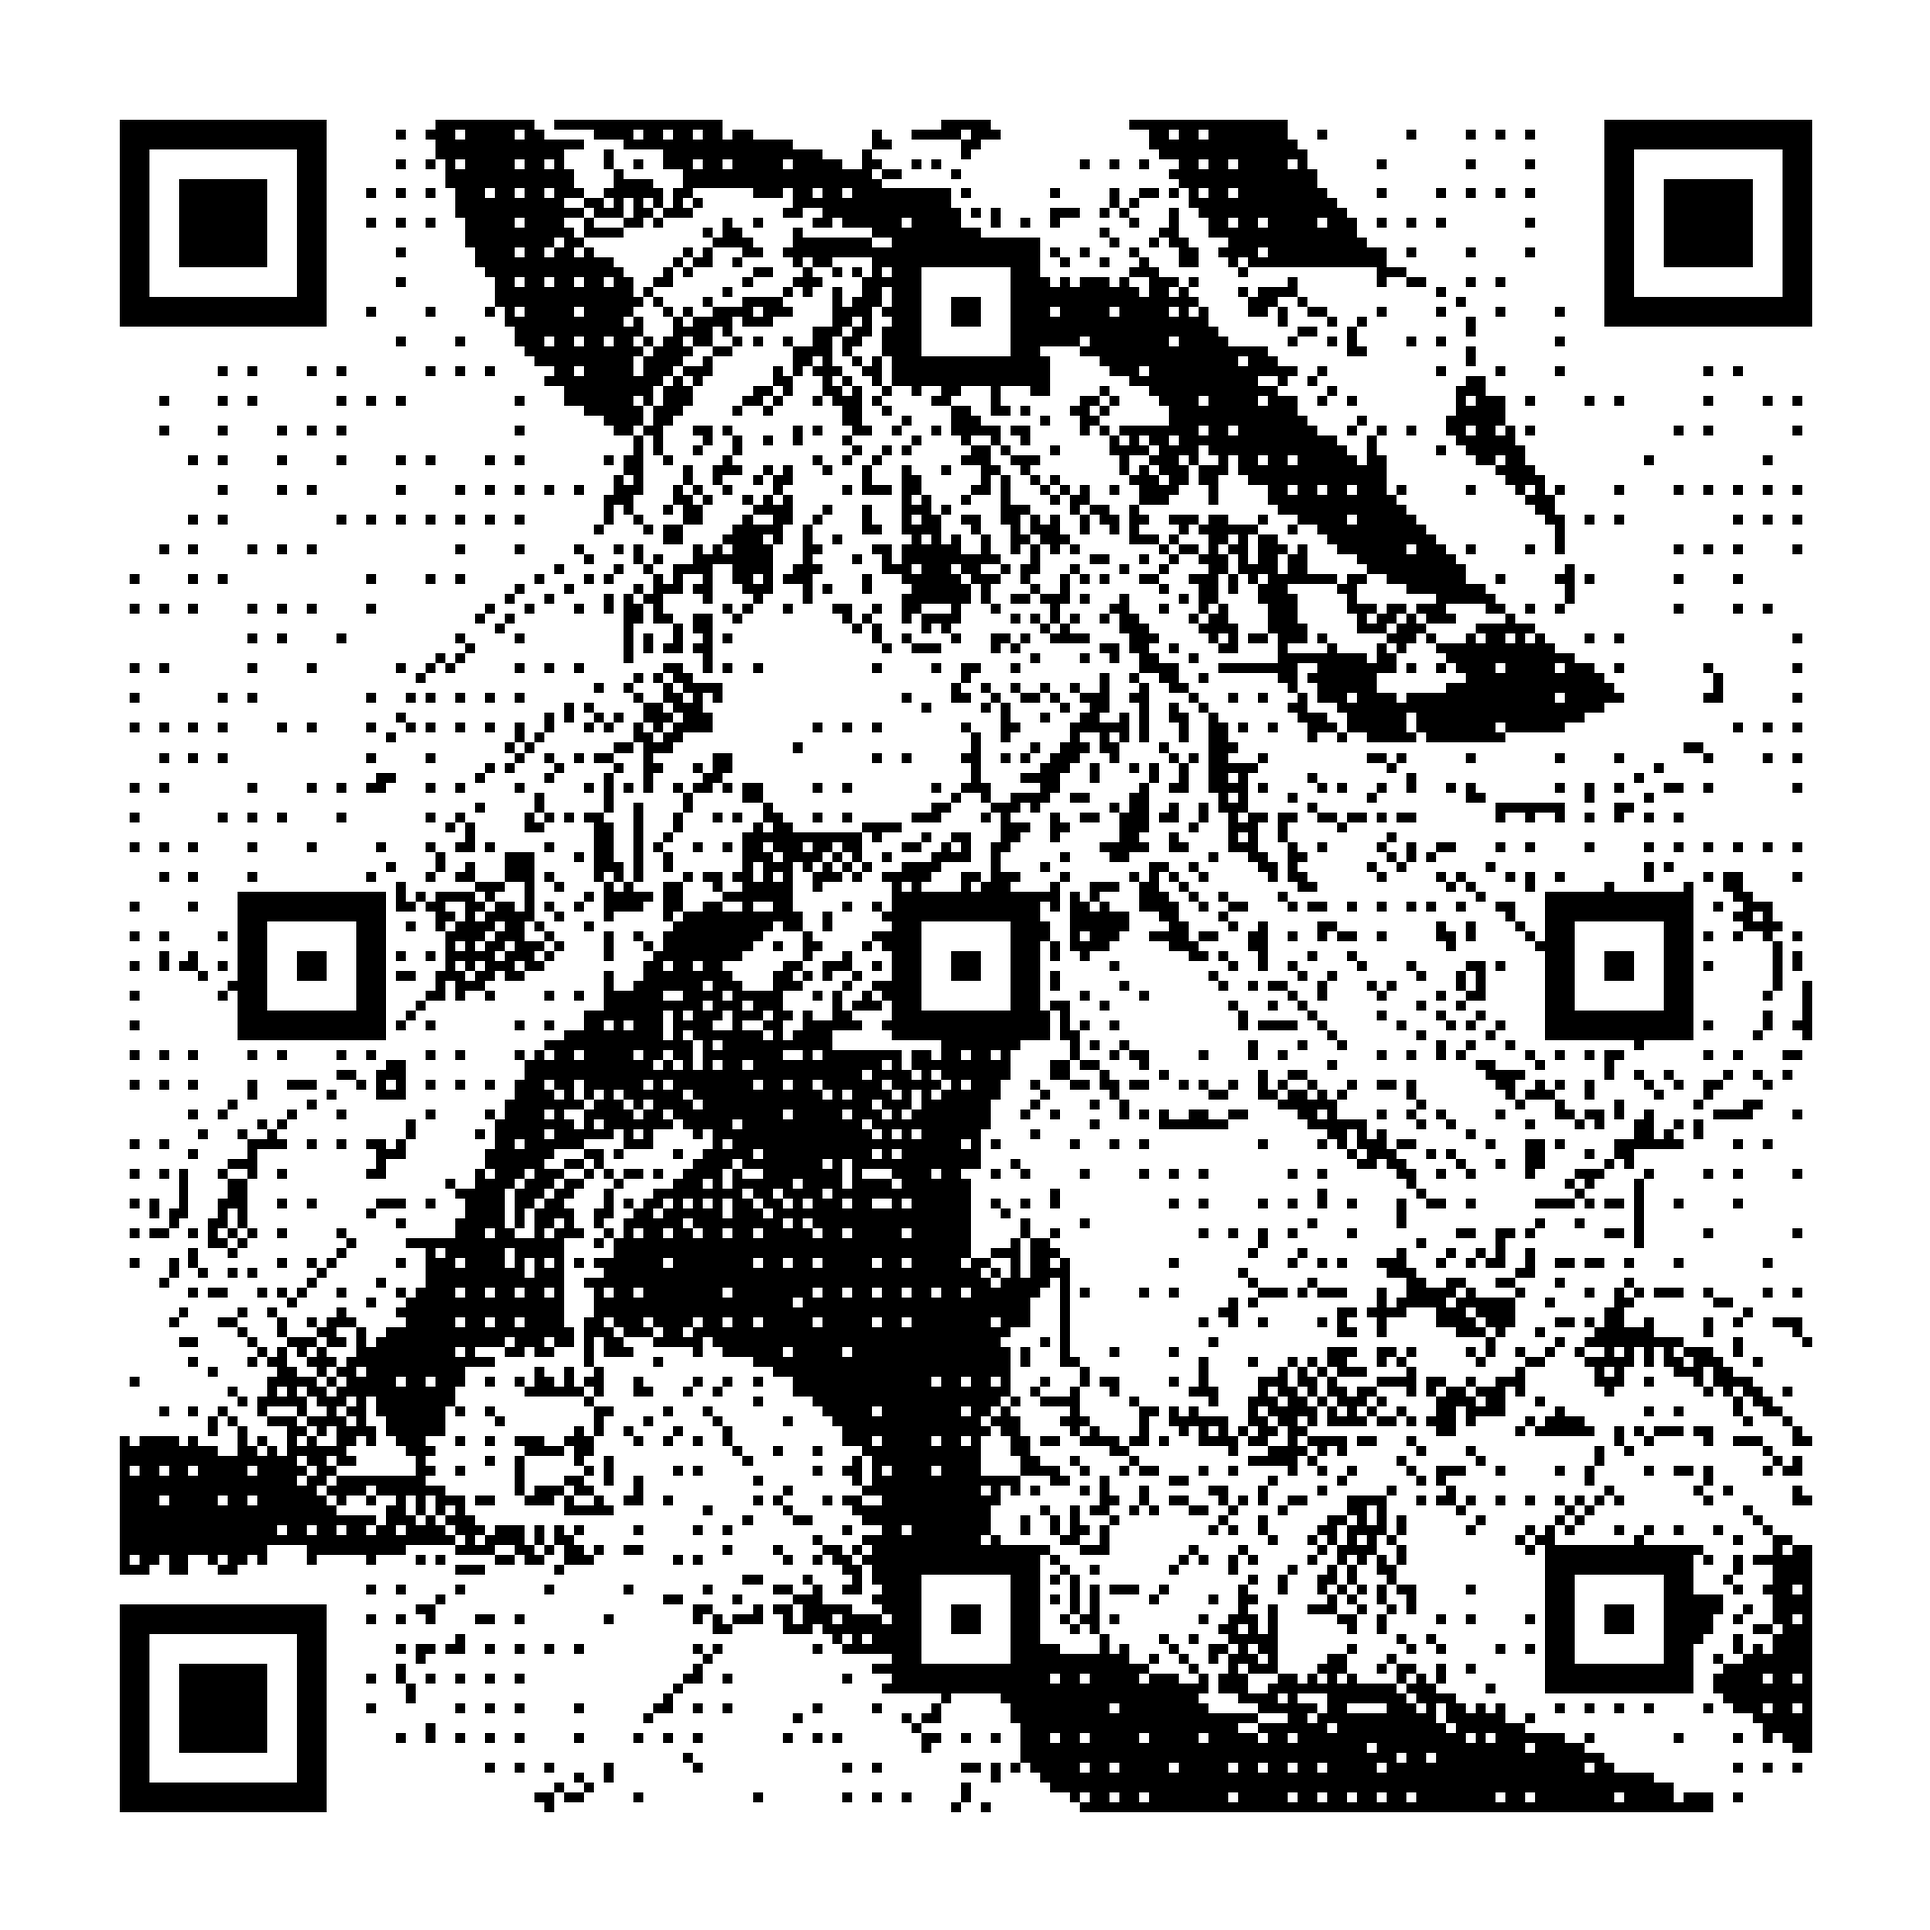
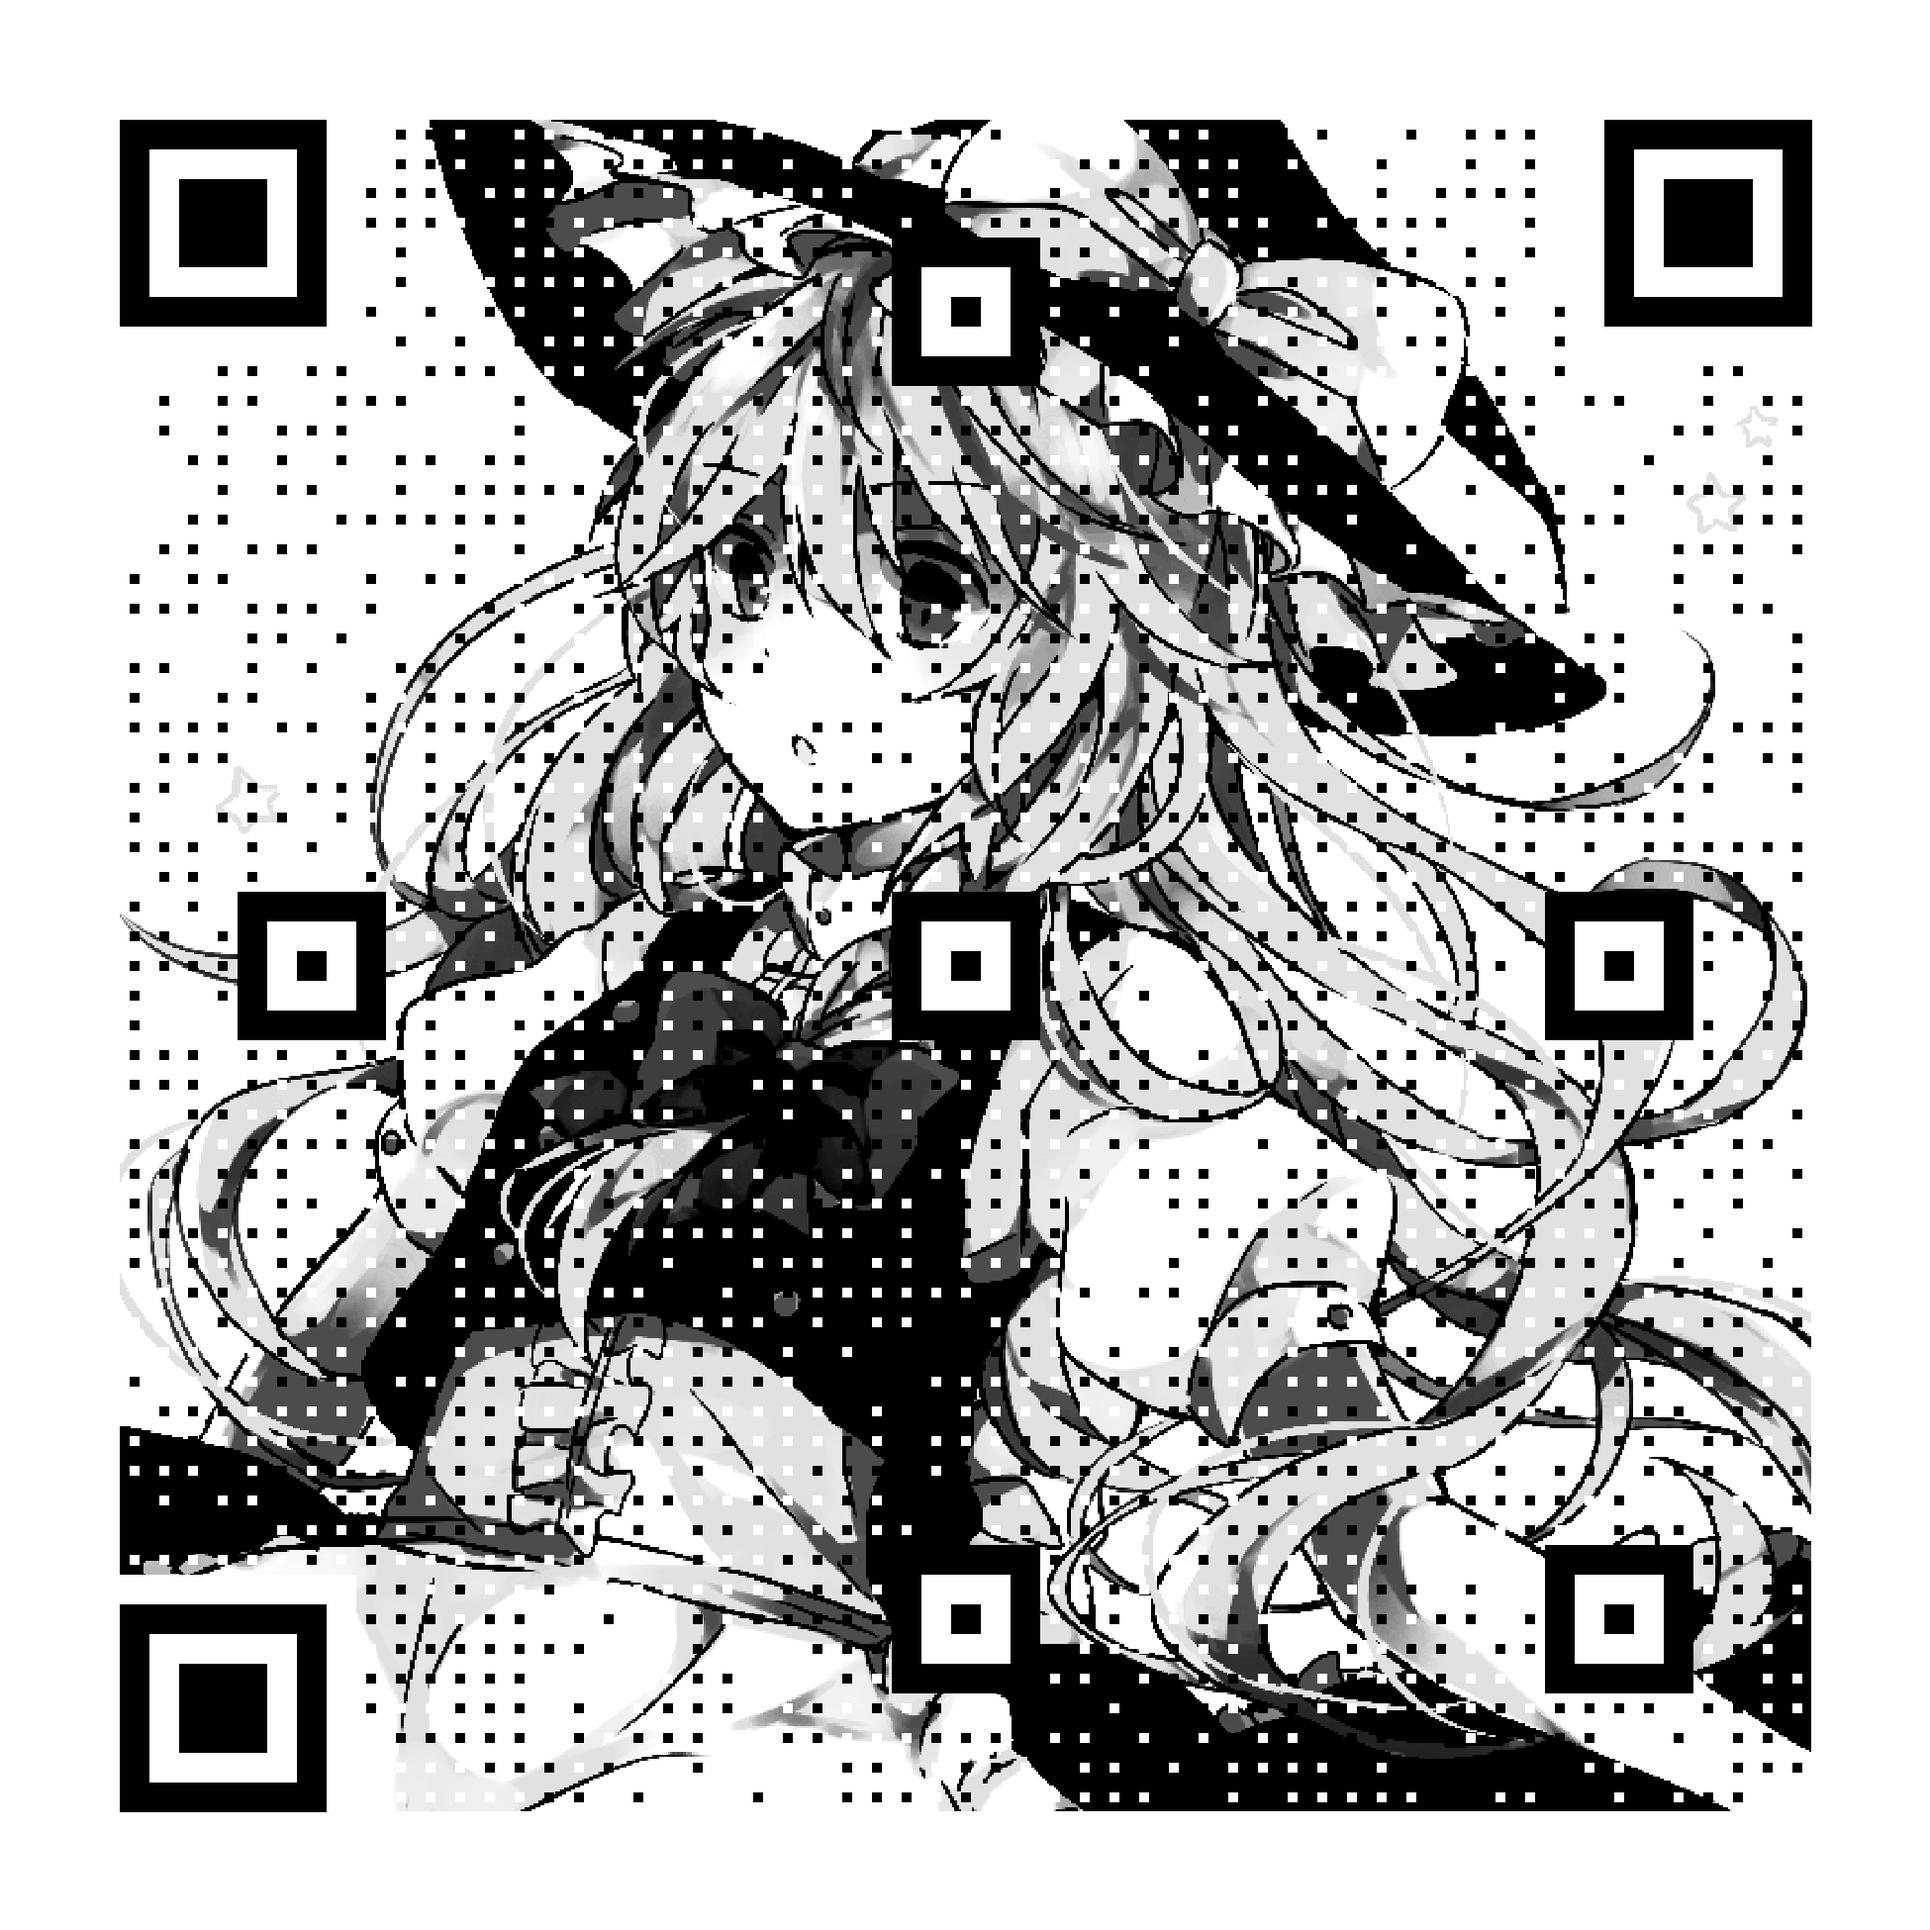
support HD mode

diff --git a/CuteR/CuteR.py b/CuteR/CuteR.py
@@ -6,10 +6,10 @@ from PIL import ImageEnhance
 import qrcode
 
 
-def color_replace(image,color):
+def color_replace(image, color):
     """Replace black with other color
 
-    :color: custom color (r,g,b)
+    :color: custom color (r,g,b,a)
     :image: image to replace color
     :returns: TODO
 
@@ -18,13 +18,12 @@ def color_replace(image,color):
     size = image.size[0]
     for width in range(size):
         for height in range(size):
-            r,g,b = pixels[width,height]
-            if (r,g,b) == (0,0,0):
+            r, g, b, a = pixels[width, height]
+            if (r, g, b, a) == (0,0,0,255):
                 pixels[width,height] = color
 
-
 def produce(txt,img,ver=5,err_crt = qrcode.constants.ERROR_CORRECT_H,bri = 1.0, cont = 1.0,\
-        colourful = False, rgb = (0,0,0)):
+        colourful = False, rgba = (0,0,0,255),pixelate = False):
     """
 
     :txt: QR text
@@ -34,34 +33,39 @@ def produce(txt,img,ver=5,err_crt = qrcode.constants.ERROR_CORRECT_H,bri = 1.0, 
     :bri: Brightness enhance
     :cont: Contrast enhance
     :colourful: If colourful mode
-    :rgb: color to replace black
+    :rgba: color to replace black
+    :pixelate: pixelate
     :returns: Produced image
 
     """
     qr = qrcode.QRCode(version = ver,error_correction = err_crt,box_size=3)
     qr.add_data(txt)
     qr.make(fit=True)
-    img_qr = qr.make_image().convert('RGB')
-    if colourful and ( rgb != (0,0,0) ):
-        color_replace(img_qr,rgb)
+    img_qr = qr.make_image().convert('RGBA')
+    if colourful and ( rgba != (0,0,0,255) ):
+        color_replace(img_qr,rgba)
     img_img = Image.open(img).convert('RGBA')
-    img_size = None
 
+    img_img_size = None
+    img_size = img_qr.size[0] - 24
     if img_img.size[0] < img_img.size[1]:
-        img_img = img_img.resize((img_qr.size[0]-24,int((img_qr.size[1]-24)*(1.0*img_img.size[1]/img_img.size[0]))))
-        img_size = img_img.size[0]
+        img_img_size = img_img.size[0]
     else:
-        img_img = img_img.resize( (int((img_qr.size[0]-24)*(1.0*img_img.size[0]/img_img.size[1])),(img_qr.size[1]-24)) )
-        img_size = img_img.size[1]
+        img_img_size = img_img.size[1]
 
-    enh = ImageEnhance.Contrast(img_img)
+    img_enh = img_img.crop((0,0,img_img_size,img_img_size))
+    enh = ImageEnhance.Contrast(img_enh)
     img_enh = enh.enhance(cont)
     enh = ImageEnhance.Brightness(img_enh)
     img_enh = enh.enhance(bri)
     if not colourful:
-        img_enh = img_enh.convert('1')
-        img_qr = img_qr.convert('1')
-    img_res = img_qr
+        if pixelate:
+            img_enh = img_enh.convert('1').convert('RGBA')
+        else:
+            img_enh = img_enh.convert('L').convert('RGBA')
+    img_frame = img_qr
+
+
     for x in range(0,img_size):
         for y in range(0,img_size):
             if (x%3 ==1 and  y%3 == 1):
@@ -70,13 +74,11 @@ def produce(txt,img,ver=5,err_crt = qrcode.constants.ERROR_CORRECT_H,bri = 1.0, 
                 continue
             if x > img_size-25 and (y < 24 ):
                 continue
-            if img_img.getpixel((x,y))[2] == 0:
-                continue
-            img_res.putpixel((x+12,y+12),img_enh.getpixel((x,y)))
+            img_frame.putpixel((x+12,y+12),(255,0,0,0))
     pos = qrcode.util.pattern_position(qr.version)
-    img_qr2 = qr.make_image().convert("RGB")
-    if colourful and ( rgb != (0,0,0) ):
-        color_replace(img_qr2,rgb)
+    img_qr2 = qr.make_image().convert("RGBA")
+    if colourful and ( rgba != (0,0,0,0) ):
+        color_replace(img_qr2,rgba)
     for i in pos:
         for j in pos:
             if (i == 6 and j == pos[-1]) or (j == 6 and i == pos[-1])\
@@ -85,9 +87,16 @@ def produce(txt,img,ver=5,err_crt = qrcode.constants.ERROR_CORRECT_H,bri = 1.0, 
             else:
                 rect = (3*(i-2)+12,3*(j-2)+12,3*(i+3)+12,3*(j+3)+12)
                 img_tmp = img_qr2.crop(rect)
-                img_res.paste(img_tmp,rect)
+                img_frame.paste(img_tmp,rect)
 
-    return img_res.resize((img_res.size[0]*10,img_res.size[1]*10))
+    img_res = Image.new("RGBA",(img_frame.size[0]*10,img_frame.size[1]*10),(255,255,255,255))
+    img_enh = img_enh.resize((img_size*10,img_size*10))
+    img_res.paste(img_enh,(120,120),img_enh)
+    img_frame = img_frame.resize((img_frame.size[0]*10,img_frame.size[1]*10))
+    img_res.paste(img_frame,(0,0),img_frame)
+    if pixelate:
+        return img_res.resize(img_qr.size).resize((img_img_size,img_img_size))
+    return img_res
 
 
 def main():
@@ -101,7 +110,8 @@ def main():
     parser.add_argument("-b", "--brightness", type=float, help="Brightness enhance")
     parser.add_argument("-c", "--contrast", type=float, help="Contrast enhance")
     parser.add_argument("-C", "--colourful", action="store_true",help="colourful mode")
-    parser.add_argument("-r", "--rgb", nargs=3, metavar=('R','G','B'),type = int, help="color to replace black")
+    parser.add_argument("-r", "--rgba", nargs=4, metavar=('R','G','B','A'),type = int, help="color to replace black")
+    parser.add_argument("-p", "--pixelate", action="store_true",help="pixelate")
     args = parser.parse_args()
 
     img = args.image
@@ -123,14 +133,15 @@ def main():
     cont = args.contrast if args.contrast else 1.0
     bri = args.brightness if args.brightness else 1.0
     colr = True if args.colourful else False
+    pixelate = True if args.pixelate else False
     if colr :
-        if args.rgb:
-          rgb = tuple(args.rgb)
+        if args.rgba:
+          rgba = tuple(args.rgba)
         else:
-            rgb = (0,0,0)
+            rgba = (0,0,0)
     else:
-        rgb = (0,0,0)
-    produce(txt,img,ver,ec,bri, cont ,colourful = colr,rgb=rgb).save(output)
+        rgba = (0,0,0)
+    produce(txt,img,ver,ec,bri, cont ,colourful = colr,rgba=rgba,pixelate = pixelate).save(output)
 
 if __name__ == "__main__":
     main()

diff --git a/setup.py b/setup.py
@@ -4,7 +4,7 @@
 from setuptools import setup, find_packages
 
 setup(name='CuteR',
-      version='1.0',
+      version='1.1',
       description='Custom QR Code with picture',
       author='Chinuno Usami',
       author_email='usami@chinuno.com',

diff --git a/README.md b/README.md
@@ -7,7 +7,7 @@ Commands:
 
 ```bash
 CuteR -c 10 -e H -o sample_output.png -v 10 sample_input.png http://www.chinuno.com
-CuteR -C -r 100 50 100 sample_input.png http://www.chinuno.com #colourful mode
+CuteR -C -r 100 50 100 188 sample_input.png http://www.chinuno.com #colourful mode
 ```
 ### Input
 
@@ -57,15 +57,16 @@ arguments:
       :bri: Brightness enhance
       :cont: Contrast enhance
       :colourful: If colourful mode
-      :rgb: color to replace black
+      :rgba: color to replace black
+      :pixelate: pixelate
       :returns: Produced image
 
 ### As command tool
 
 usage:
 ```
-CuteR [-h] [-o OUTPUT] [-v VERSION] [-e {Q,H,M,L}] [-b BRIGHTNESS]
-                [-c CONTRAST] [-C] [-r R G B]
+CuteR.py [-h] [-o OUTPUT] [-v VERSION] [-e {Q,H,M,L}] [-b BRIGHTNESS]
+                [-c CONTRAST] [-C] [-r R G B A] [-p]
                 image text
 
 Combine your QR code with custom picture
@@ -87,8 +88,10 @@ optional arguments:
   -c CONTRAST, --contrast CONTRAST
                         Contrast enhance
   -C, --colourful       colourful mode
-  -r R G B, --rgb R G B
+  -r R G B A, --rgba R G B A
                         color to replace black
+  -p, --pixelate        pixelate
+
 ```
 ## Dependencies
 - Python
